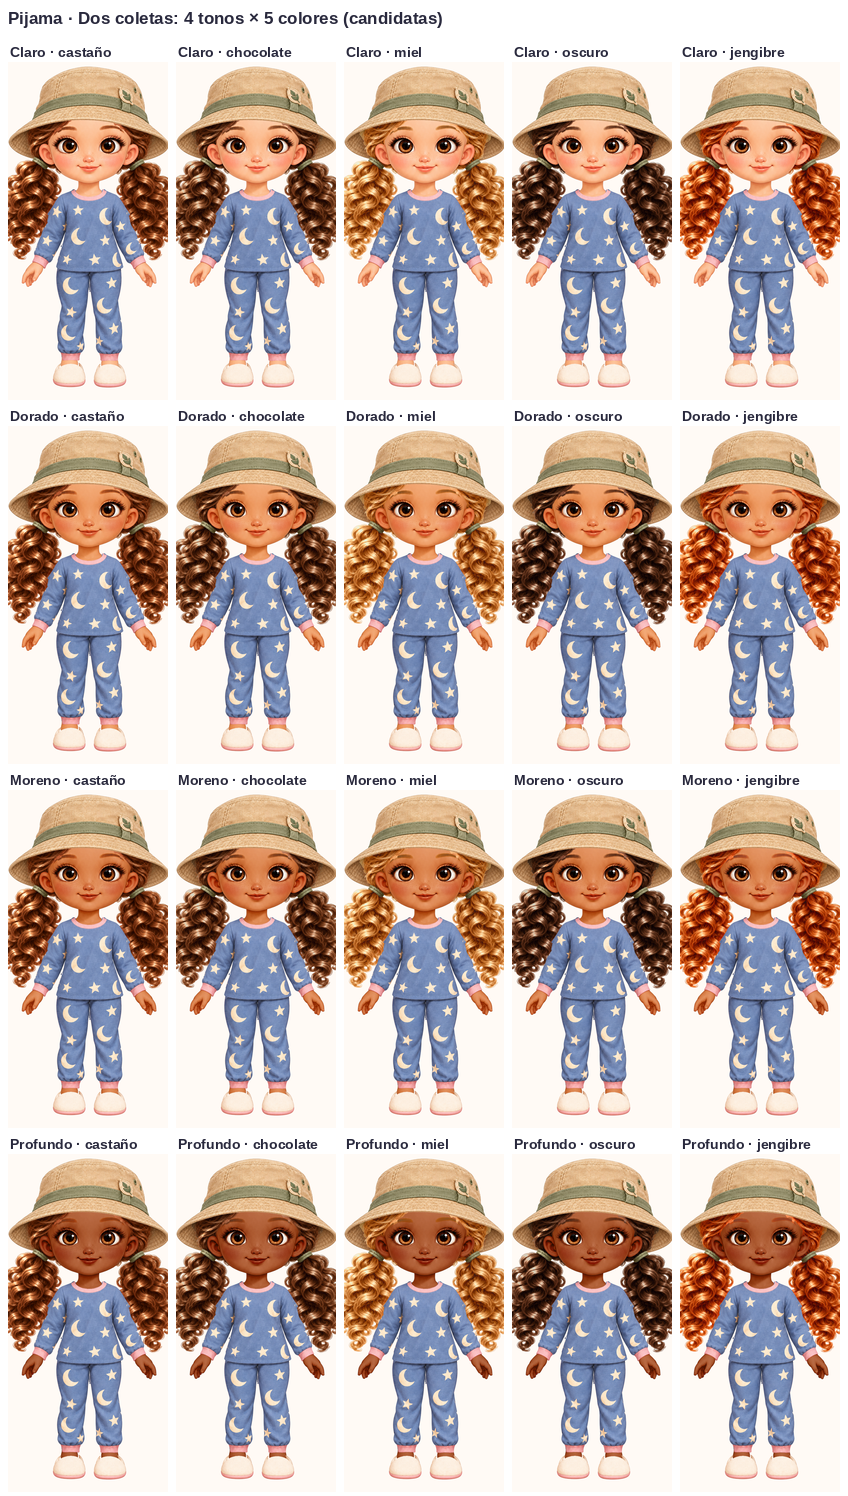
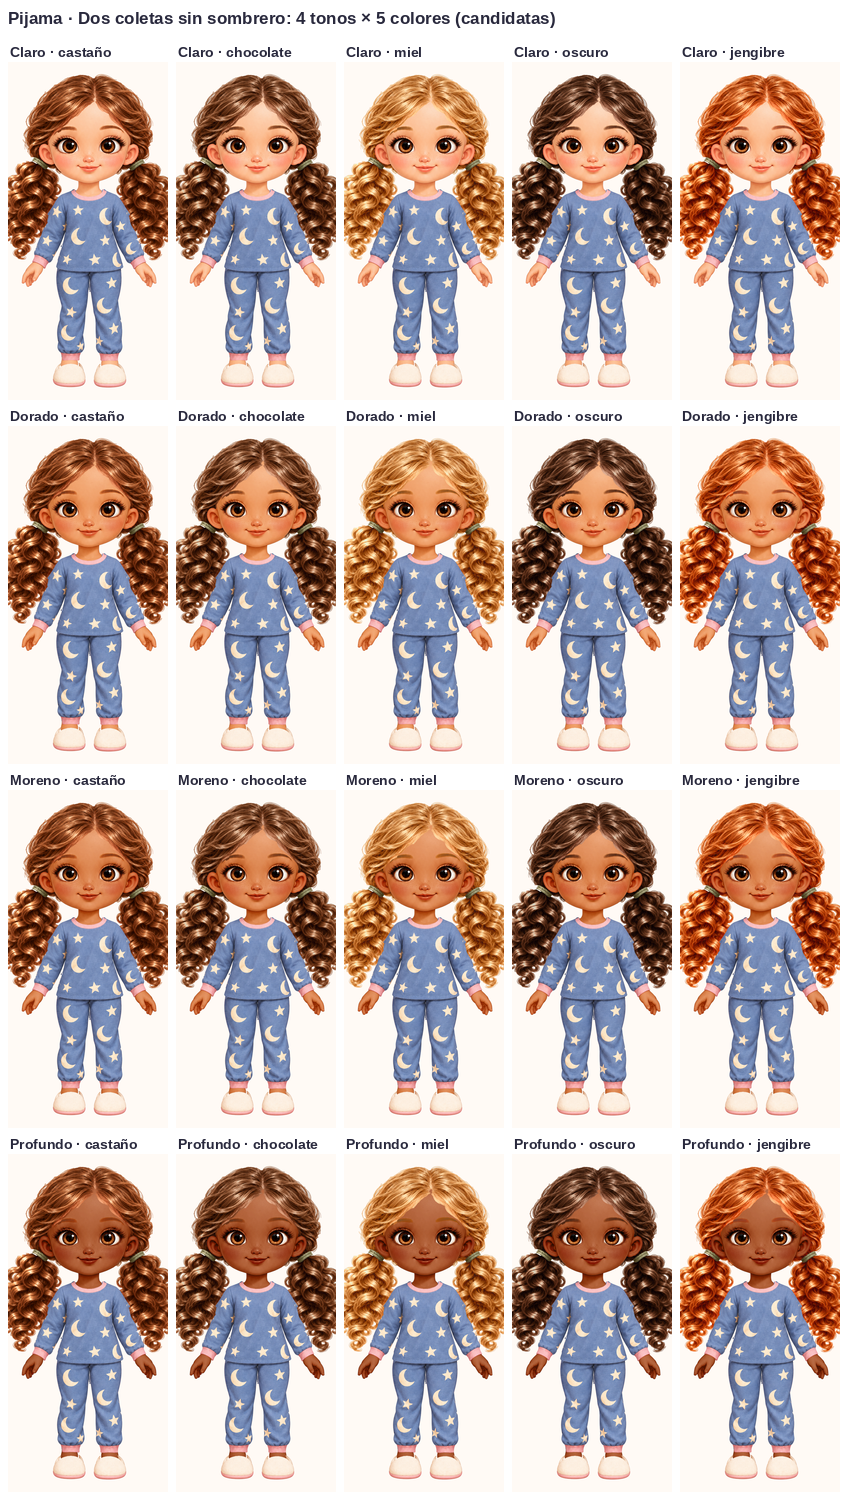
D-028: camiseta del borde limpio como candidata, comparable en el visor; dos coletas sin sombrero
Fila «Camiseta del pijama» en el visor (borde limpio por defecto o la aprobada de
75e2cb5, intacta), hoja de comparación de las dos camisetas y hojas de tonos del
pijama rehechas con las dos coletas sin sombrero.

Claude-Session: https://claude.ai/code/session_013yH6JXVk52qU5Y74NLTK6f

diff --git a/docs/propuestas/base-aprobada-d013-2026-10-14/visor/index.html b/docs/propuestas/base-aprobada-d013-2026-10-14/visor/index.html
@@ -170,6 +170,11 @@
     <button data-ropa="aventura" aria-pressed="false">Conjunto de aventura (candidato)</button>
     <button data-ropa="pijama" aria-pressed="false">Pijama (candidato)</button>
   </div>
+  <div class="fila" id="fila-pij-camiseta" hidden>
+    <b>Camiseta del pijama</b>
+    <button data-pij-camiseta="b" aria-pressed="true">Borde de las mangas limpio (candidata)</button>
+    <button data-pij-camiseta="a" aria-pressed="false">Aprobada (75e2cb5)</button>
+  </div>
   <div class="fila" id="fila-prendas" hidden>
     <b>Camiseta y chaleco</b>
     <button data-prendas="medida3" aria-pressed="true">Ajustada: cintura, caderas, calcetines y botas (aprobada)</button>
@@ -687,6 +692,13 @@
     b2: '../../conjunto-aventura-2026-10-18/integrar/piernas-b2/base-piernas-sin-mallas.png',
     b2c: '../../conjunto-aventura-2026-10-18/integrar/piernas-b2c/base-piernas-sin-mallas.png' };
   var AV_PIEZAS = ['calcetines', 'botas', 'camiseta', 'pantalon', 'chaleco'];
+  var pijCamiseta = 'b';
+  document.querySelectorAll('[data-pij-camiseta]').forEach(function (b) {
+    b.addEventListener('click', function () {
+      pijCamiseta = b.dataset.pijCamiseta;
+      document.querySelectorAll('[data-pij-camiseta]').forEach(function (o) { o.setAttribute('aria-pressed', String(o === b)); });
+    });
+  });
   var LIMPIO = '../pelo-sin-restos/', PIELES_AV = '../../conjunto-aventura-2026-10-18/integrar/pieles/', PIELES_PIJ = '../../pijama-2026-10-22/integrar/pieles/';
   function mostrarAventura() {
     var av = ropa === 'aventura';
@@ -700,6 +712,9 @@
     // conjunto; por ahora solo con la piel clara
     var pij = ropa === 'pijama', limpiaRopa = av || pij;
     ['zapatillas', 'pantalon', 'camiseta'].forEach(function (k) { document.getElementById('c-pij-' + k).classList.toggle('oculto', !pij); });
+    // camiseta: la del borde limpio (capas-b, candidata, por defecto) o la aprobada de 75e2cb5 (capas, sin cambios)
+    ponSrc('c-pij-camiseta', '../../pijama-2026-10-22/integrar/' + (pijCamiseta === 'a' ? 'capas' : 'capas-b') + '/camiseta.png');
+    document.getElementById('fila-pij-camiseta').hidden = !pij;
     if (pij) document.getElementById('c-brazos').classList.add('oculto');
     mostrarColeta(); mostrarColetas2();
     // (22/10) con otro tono de piel, las capas de bordes de la ropa y del pelo de esa ropa (integrar/pieles/<tono>/)

diff --git a/docs/REGISTRO_CAMBIOS.md b/docs/REGISTRO_CAMBIOS.md
@@ -1,6 +1,22 @@
 # Registro de cambios
 
-### 2026-10-22 — D-028: encaje del pijama aprobado; pijama con los cuatro tonos de piel (candidatos)
+### 2026-10-22 — D-028: camiseta del borde limpio como candidata, comparable en el visor; dos coletas sin sombrero
+
+- **Solicitado por:** la propietaria («Mantén la camiseta con el borde limpio como candidata; conserva intacta la anterior.
+  Revisaré los tonos en el visor antes de aprobar esta fase. Para las próximas comparaciones del pijama, muestra las dos
+  coletas sin el sombrero de aventura.»).
+- **Rama y commit:** `avatar-creador`, este commit (sobre `ad32d12`, el de la entrada siguiente).
+- **Estado:** camiseta del borde limpio **candidata**; la aprobada, intacta; tonos pendientes de revisión. Nada activado.
+- **Cambios:** visor (fila «Camiseta del pijama»); `pijama-2026-10-22/integrar/capas-b/comparacion-camisetas.png`; hojas de
+  `integrar/pieles/` rehechas con las dos coletas sin sombrero; D-028 (5), `ESTADO_ACTUAL.md` y los `LEEME.md` del pijama y
+  del visor (48). Las capas no cambian.
+- **Datos guardados afectados:** ninguno. Juego, `sw.js`, copias congeladas y `main` sin cambios.
+- **Pruebas:** visor (60 combinaciones con el pijama y las dos coletas sin sombrero; fila nueva; sin errores).
+  `pruebas/prueba-juego.js` 21/21 y `pruebas/prueba-copia.js` 45/45. No probado en un iPhone real.
+- **¿`main` intacta?:** sí (`4bbf51d`, comprobado con `git ls-remote`).
+- **Cómo revertir:** `git revert` de este commit.
+
+### 2026-10-22 — `ad32d12` · D-028: encaje del pijama aprobado; pijama con los cuatro tonos de piel (candidatos)
 
 - **Solicitado por:** la propietaria («Apruebo el encaje del pijama de 75e2cb5. Regístralo en D-028 y continúa con los
   cuatro tonos de piel, conservando las prendas aprobadas. Revisa cuello, puños y tobillos para evitar halos claros.

diff --git a/docs/ESTADO_ACTUAL.md b/docs/ESTADO_ACTUAL.md
@@ -135,7 +135,8 @@ en `docs/VERSION_DE_PRUEBAS.md`).
 camiseta, el pantalón y las zapatillas** sobre nuestra muñeca (`…/integrar/capas/`): rosa a la vista 0 px; montajes con
 melena y gorrito B, coleta y dos coletas. **Encaje aprobado** (22/10, `75e2cb5`). Con los **cuatro tonos de piel** y los
 cinco colores de pelo (`…/integrar/pieles/`, candidatos): sin halos claros en cuello, puños y tobillos; camiseta con el
-borde de las mangas limpio (`…/integrar/capas-b/`, a confirmar; la aprobada se conserva). Siguiente: ropa de hada.
+borde de las mangas limpio (`…/integrar/capas-b/`, candidata; la aprobada se conserva intacta y se puede comparar en el
+visor). Tonos pendientes de la revisión de la propietaria en el visor. Siguiente: ropa de hada.
 
 **Conjunto de aventura (18/10, D-027):**
 - **Diseño aprobado** (camiseta con hoja, chaleco arena, pantalón verde, calcetines, botas y mochila); referencia en
@@ -354,7 +355,7 @@ históricos, no pruebas ejecutadas en esta sesión. Ojos verdes: mencionados por
 pero no encontrados en los originales ni en el catálogo premium de `2dc61c7`; no se dan por
 perdidos ni se rehacen sin localizar antes su fuente.
 
-**Última actualización:** 22/10/2026 (D-028: encaje del pijama aprobado; pijama con los cuatro tonos, candidatos) · **Rama:** `avatar-creador` ·
+**Última actualización:** 22/10/2026 (D-028: camiseta del borde limpio como candidata, comparable con la aprobada; tonos del pijama pendientes de revisión) · **Rama:** `avatar-creador` ·
 **Último commit funcional:** el de la entrada más reciente de `docs/REGISTRO_CAMBIOS.md` (copia
 integrada), probado solo en simulación · **`main`:** `4bbf51d`, sin cambios desde el 11/10/2026.
 

diff --git a/docs/propuestas/pijama-2026-10-22/LEEME.md b/docs/propuestas/pijama-2026-10-22/LEEME.md
@@ -104,3 +104,10 @@ zapatillas por separado) y se prueban con la melena, la coleta, las dos coletas 
 - Hojas: `integrar/pieles/tonos-peinados.png`, `colores-melena.png`, `colores-coleta.png`, `colores-coletas2.png` (4 tonos ×
   5 colores) y `detalles-antes-despues.png` (cuello, puños, tobillos y pelo). Visor: «Pijama (candidato)» con los cuatro
   tonos y los cinco colores. **Tonos candidatos, pendientes de revisión; sin probar en el iPhone real.**
+
+**22/10 (indicaciones de la propietaria):** la camiseta con el borde limpio (`integrar/capas-b/`) **se mantiene como
+candidata**; la aprobada de `75e2cb5` (`integrar/capas/camiseta.png`) se conserva **intacta**. En el visor, con el pijama,
+fila «Camiseta del pijama» para compararlas (borde limpio, por defecto, o aprobada); hoja
+`integrar/capas-b/comparacion-camisetas.png`. La propietaria revisará los tonos en el visor antes de aprobar esta fase.
+**En las comparaciones del pijama, las dos coletas se muestran sin el sombrero de aventura** (hojas de `integrar/pieles/`
+rehechas así).

diff --git a/docs/DECISIONES.md b/docs/DECISIONES.md
@@ -35,6 +35,10 @@
   - Encontrado al revisar: el borde de las mangas alargadas tenía 127 píxeles sueltos a cuadros (una línea de puntos
     claros). Copia corregida en `integrar/capas-b/camiseta.png` (solo en esa zona); **la aprobada se conserva** y el visor
     usa la corregida, **a confirmar**. Tonos **candidatos**.
+- **22/10/2026 (5):** la propietaria pide **mantener la camiseta con el borde limpio como candidata** y conservar intacta la
+  anterior (aprobada); revisará los tonos en el visor antes de aprobar esta fase; **en las comparaciones del pijama, las dos
+  coletas sin el sombrero de aventura**. Hecho: fila «Camiseta del pijama» en el visor (borde limpio por defecto, o la
+  aprobada), hoja `integrar/capas-b/comparacion-camisetas.png` y hojas de tonos rehechas con las dos coletas sin sombrero.
 
 ## D-027 · Conjunto de aventura: diseño aprobado · 18/10/2026
 - **Decisión de la propietaria:** «Apruebo el diseño: camiseta con hoja, chaleco arena, pantalón verde, calcetines, botas

diff --git a/docs/propuestas/base-aprobada-d013-2026-10-14/visor/LEEME.md b/docs/propuestas/base-aprobada-d013-2026-10-14/visor/LEEME.md
@@ -234,3 +234,6 @@ los montajes (≤ 3).
 **22/10/2026 (47) · D-028:** el pijama con los **cuatro tonos de piel** (candidatos): capa `c-pij-bordes`
 (`pijama-2026-10-22/integrar/pieles/<tono>/bordes-ropa.png`), bordes del pelo de esa carpeta y pelo de detrás de
 `pijama-2026-10-22/integrar/pelo/`; la camiseta es la del borde limpio (`integrar/capas-b/`). Ya no avisa al elegir otro tono.
+**22/10/2026 (48) · D-028:** con el pijama, fila «Camiseta del pijama»: «Borde de las mangas limpio (candidata)», por
+defecto (`integrar/capas-b/`), y «Aprobada (75e2cb5)» (`integrar/capas/`, sin cambios). (Con la aprobada, la capa de
+bordes de los tonos es la calculada para la del borde limpio: difieren solo en ese borde.)
